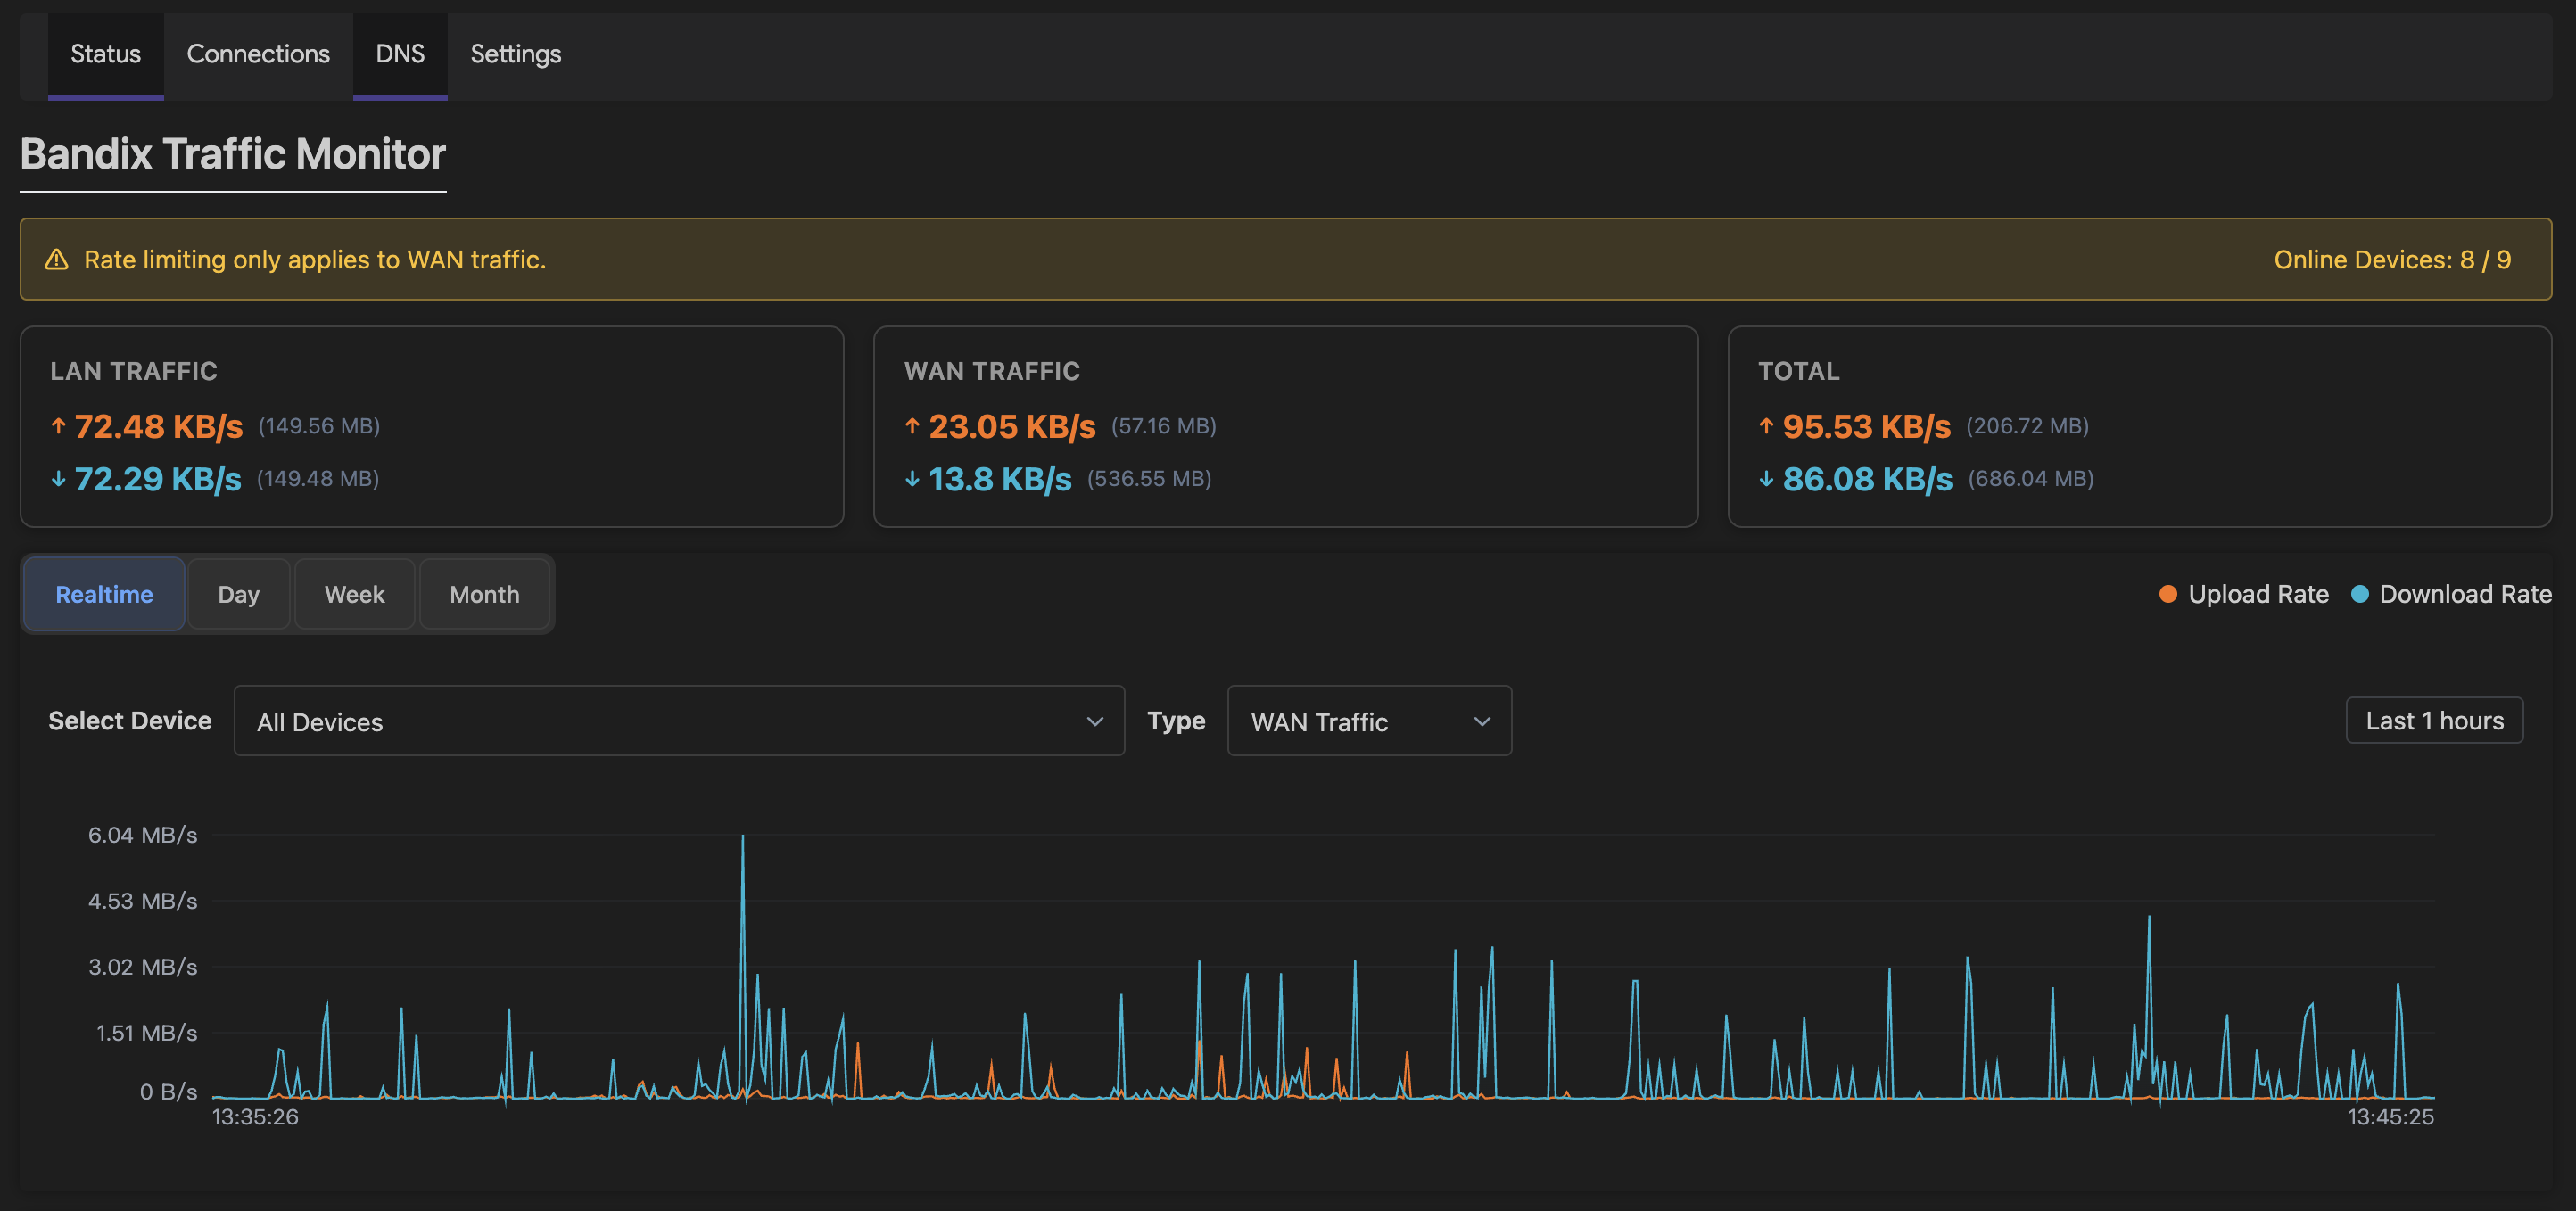
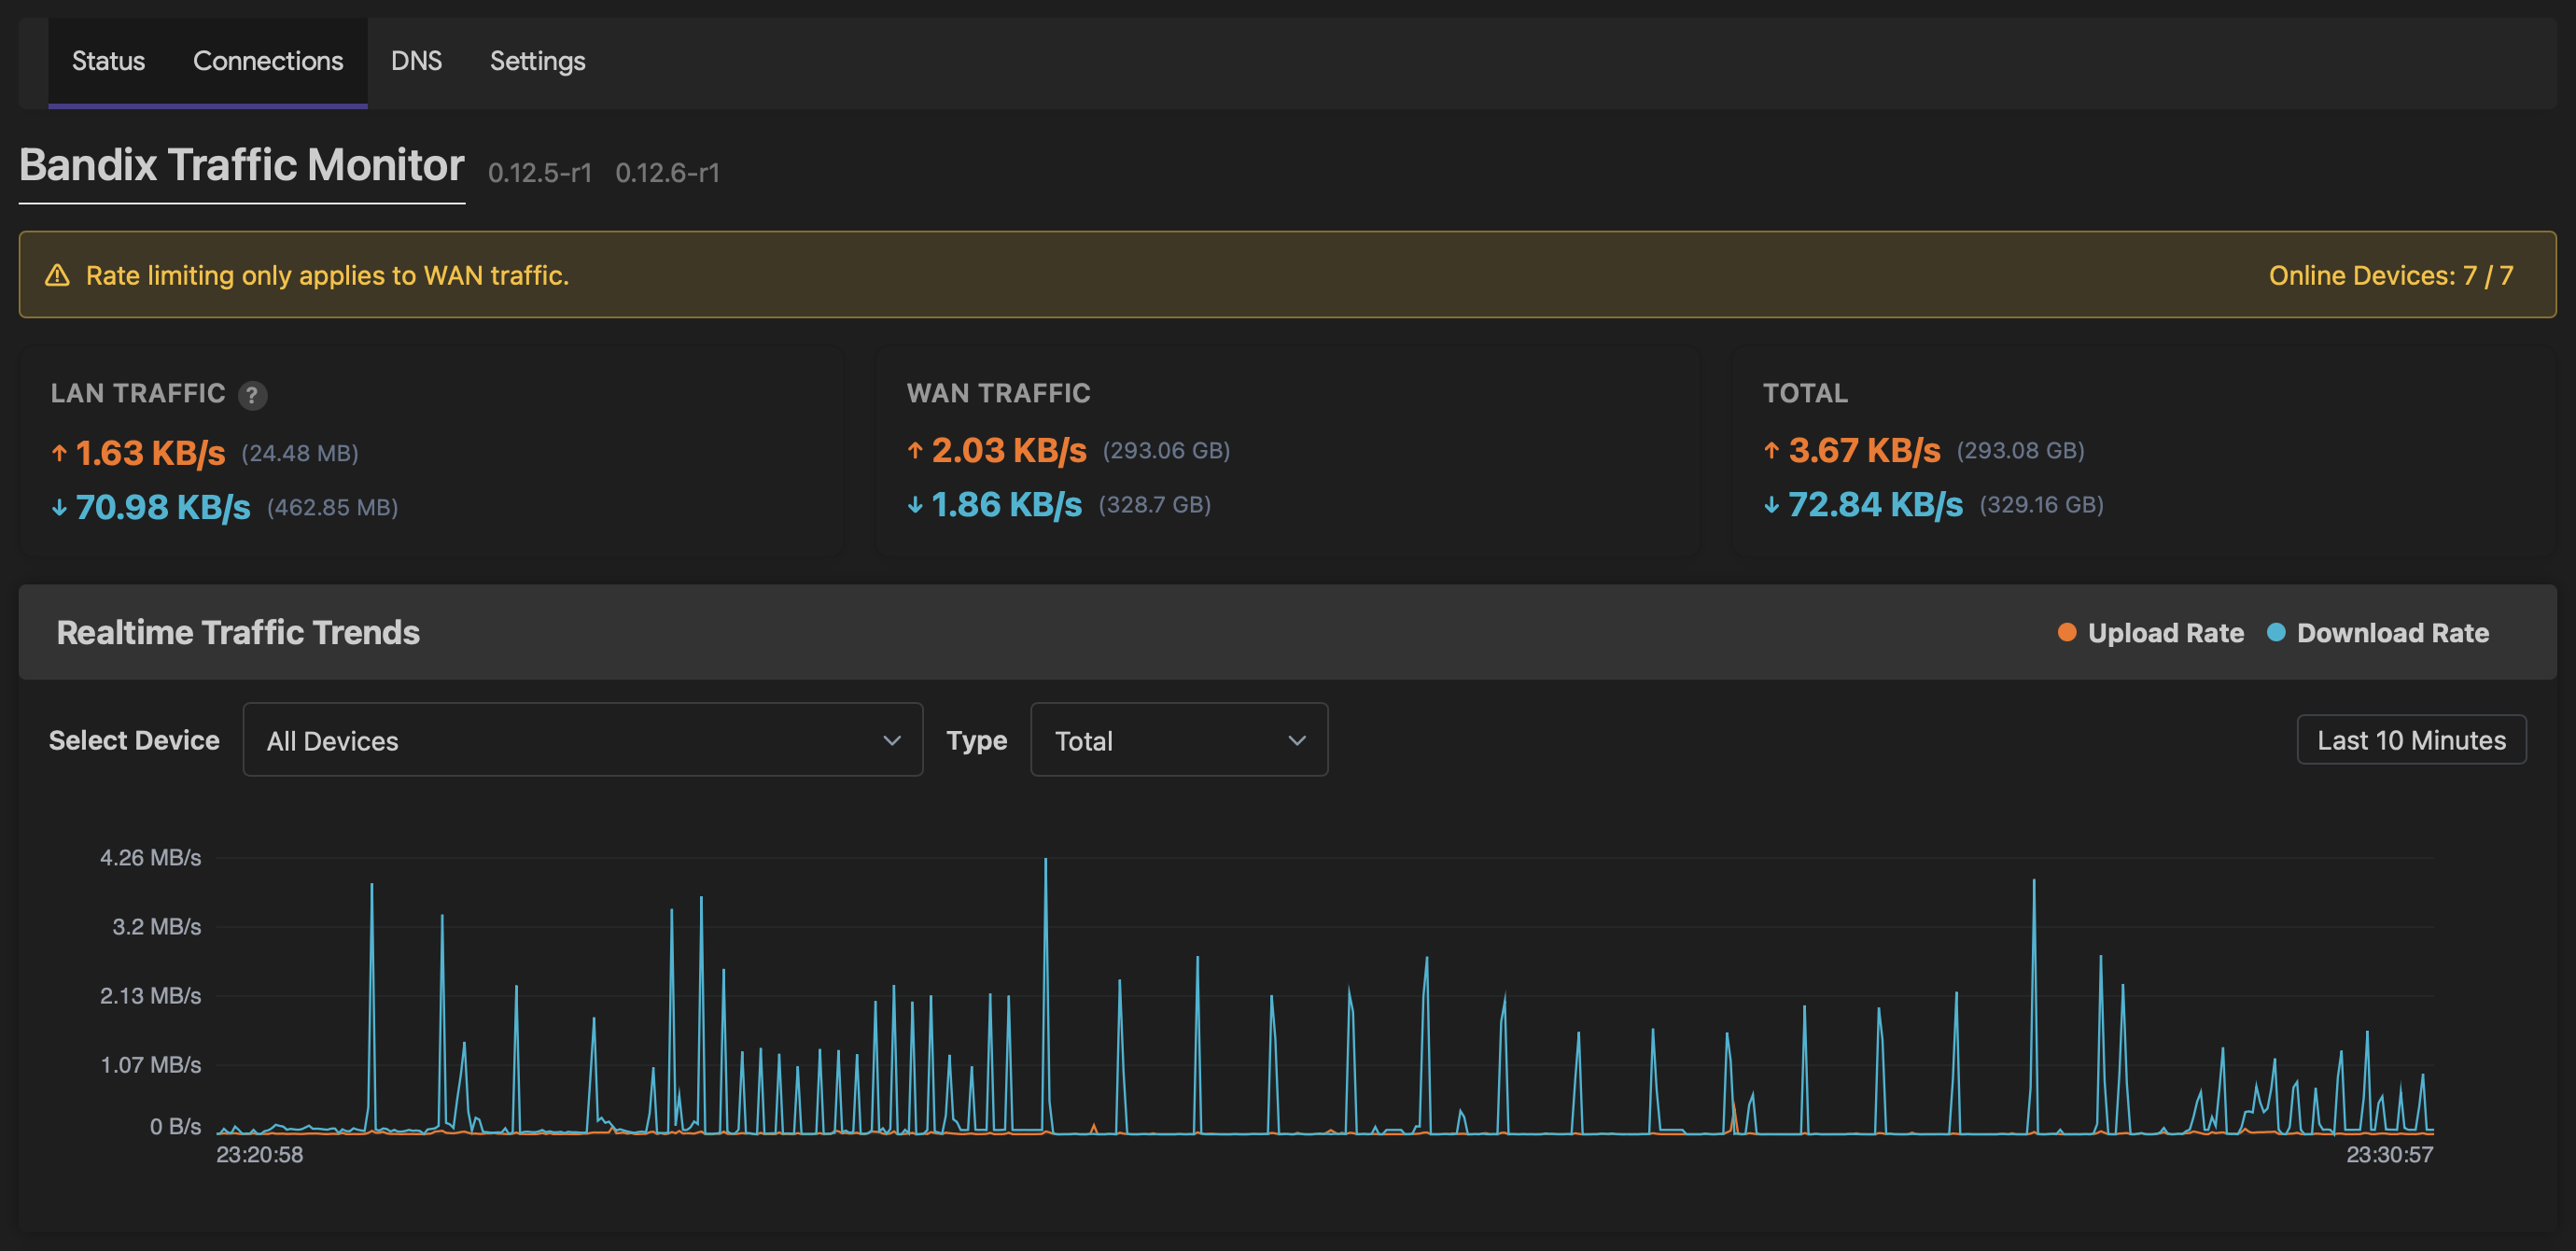
chore: update packages from pull history
- Auto-update based on pull_history.json
  - Updated at: 2026-03-06T02:30:22+00:00

diff --git a/luci-app-partexp/README.md b/luci-app-partexp/README.md
@@ -10,7 +10,7 @@
 <a href="https://www.apple.com/safari/"><img alt="Safari" src="https://img.shields.io/badge/Safari-%E2%89%A516.4-000000?logo=safari&logoColor=white"></a>
 <a href="https://www.mozilla.org/firefox/"><img alt="Firefox" src="https://img.shields.io/badge/Firefox-%E2%89%A5128-FF7138?logo=firefoxbrowser&logoColor=white"></a>
 <a target="_blank" href="https://github.com/sirpdboy/luci-app-partexp/releases"> <img alt="GitHub release" src="https://img.shields.io/github/v/release/sirpdboy/luci-app-partexp"></a>
-<a href="https://github.com/sirpdboy/luci-app-partexp/releases"><img alt="Downloads" src="https://img.shields.io/github/downloads/sirpdboy/luci-app-partexp/total"></a>
+<a href="https://github.com/sirpdboy/luci-app-partexp/releases"><img alt="Downloads" src="https://img.shields.io/github/downloads/sirpdboy/luci-app-partexp/total?cacheSeconds=1"></a>
 </p>
 
 [中文] | [English](README.md) 